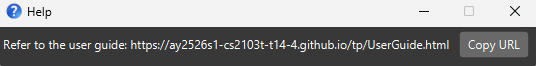
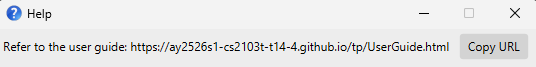
Update colours for help command

diff --git a/src/main/resources/view/HelpWindow.css b/src/main/resources/view/HelpWindow.css
@@ -1,19 +1,19 @@
 #copyButton, #helpMessage {
-    -fx-text-fill: white;
+    -fx-text-fill: black;
 }
 
 #copyButton {
-    -fx-background-color: dimgray;
+    -fx-background-color: lightgray;
 }
 
 #copyButton:hover {
-    -fx-background-color: gray;
-}
-
-#copyButton:armed {
     -fx-background-color: darkgray;
 }
 
+#copyButton:armed {
+    -fx-background-color: gray;
+}
+
 #helpMessageContainer {
-    -fx-background-color: derive(#1d1d1d, 20%);
+    -fx-background-color: derive(#E5E5E5, 20%);
 }
